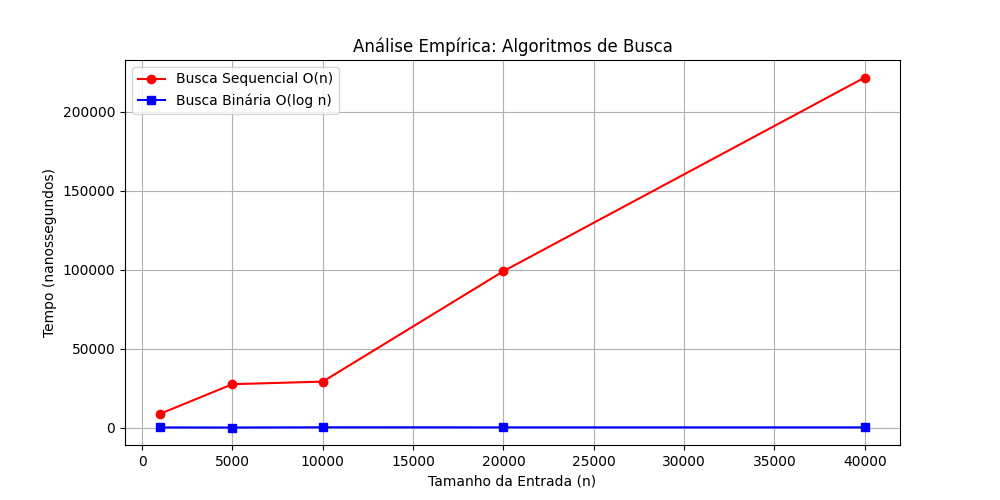
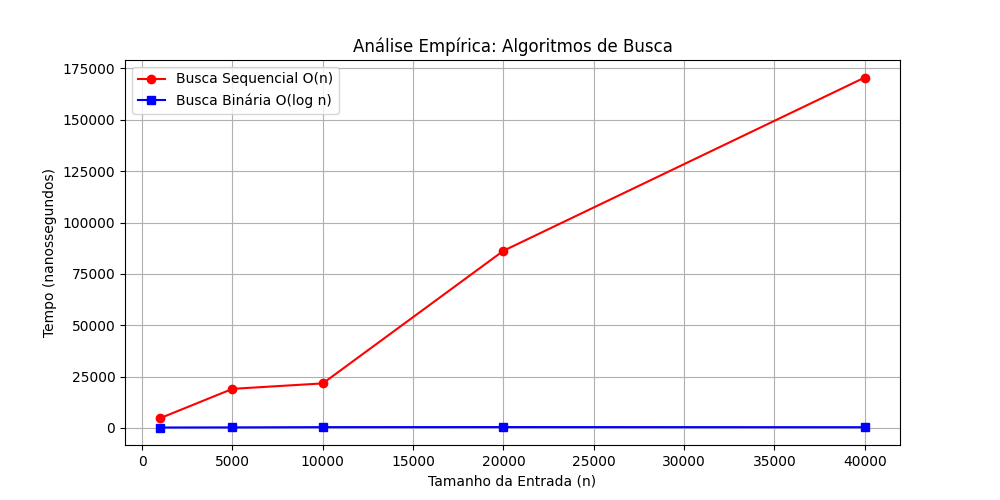
Update: Código documentado e resultados empíricos atualizados

diff --git a/main.cpp b/main.cpp
@@ -8,17 +8,26 @@
 using namespace std;
 using namespace std::chrono;
 
-// --- 1. Busca Sequencial ---
+/**
+ * --- 1. Busca Sequencial ---
+ * Complexidade de Pior Caso: O(n)
+ * Percorre o vetor elemento por elemento.
+ */
 int buscaSequencial(const vector<int>& arr, int alvo) {
-    for (int i = 0; i < arr.size(); i++) {
+    for (int i = 0; i < (int)arr.size(); i++) {
         if (arr[i] == alvo) return i;
     }
     return -1;
 }
 
-// --- 2. Busca Binária ---
+/**
+ * --- 2. Busca Binária ---
+ * Complexidade de Pior Caso: O(log n)
+ * Divide o espaço de busca pela metade a cada iteração.
+ * Requisito: O vetor deve estar ordenado.
+ */
 int buscaBinaria(const vector<int>& arr, int alvo) {
-    int esq = 0, dir = arr.size() - 1;
+    int esq = 0, dir = (int)arr.size() - 1;
     while (esq <= dir) {
         int meio = esq + (dir - esq) / 2;
         if (arr[meio] == alvo) return meio;
@@ -28,9 +37,14 @@ int buscaBinaria(const vector<int>& arr, int alvo) {
     return -1;
 }
 
-// --- 3. Insertion Sort ---
+/**
+ * --- 3. Insertion Sort ---
+ * Complexidade de Pior Caso: O(n^2)
+ * Algoritmo estável que ordena inserindo elementos em sua posição correta
+ * em um subconjunto já ordenado do vetor.
+ */
 void insertionSort(vector<int>& arr) {
-    for (int i = 1; i < arr.size(); i++) {
+    for (int i = 1; i < (int)arr.size(); i++) {
         int chave = arr[i];
         int j = i - 1;
         while (j >= 0 && arr[j] > chave) {
@@ -41,7 +55,11 @@ void insertionSort(vector<int>& arr) {
     }
 }
 
-// --- 4. Quick Sort ---
+/**
+ * --- 4. Quick Sort ---
+ * Complexidade Média: O(n log n) | Pior Caso: O(n^2)
+ * Algoritmo de divisão e conquista que utiliza um pivô para particionar o vetor.
+ */
 int particiona(vector<int>& arr, int baixo, int alto) {
     int pivo = arr[alto];
     int i = (baixo - 1);
@@ -63,7 +81,7 @@ void quickSort(vector<int>& arr, int baixo, int alto) {
     }
 }
 
-// Utilitário para gerar vetor aleatório
+// Utilitário para gerar vetor com semente fixa para reprodutibilidade
 vector<int> gerarVetor(int n) {
     vector<int> arr(n);
     mt19937 rng(42); 
@@ -73,8 +91,9 @@ vector<int> gerarVetor(int n) {
 }
 
 int main() {
+    // Tamanhos de entrada conforme exigido no relatório [cite: 59]
     vector<int> tamanhos = {1000, 5000, 10000, 20000, 40000};
-    int repeticoes = 10;
+    int repeticoes = 10; // Número de repetições para mitigar ruídos 
     
     ofstream arquivo("tempos_execucao.csv");
     arquivo << "n,B_Sequencial(ns),B_Binaria(ns),InsertionSort(ns),QuickSort(ns)\n";
@@ -86,15 +105,15 @@ int main() {
 
         for (int r = 0; r < repeticoes; r++) {
             vector<int> arrOriginal = gerarVetor(n);
-            int alvo = arrOriginal[n - 1]; // Pior caso na busca sequencial
+            int alvo = arrOriginal[n - 1]; // Teste focado no pior caso da busca linear
             
-            // Busca Sequencial
+            // Medição: Busca Sequencial
             auto inicio = high_resolution_clock::now();
             buscaSequencial(arrOriginal, alvo);
             auto fim = high_resolution_clock::now();
             tSeq += duration_cast<nanoseconds>(fim - inicio).count();
 
-            // Busca Binária (precisa ordenar antes, o tempo de ordenação não conta)
+            // Medição: Busca Binária (ordenada previamente com std::sort)
             vector<int> arrOrdenado = arrOriginal;
             sort(arrOrdenado.begin(), arrOrdenado.end());
             inicio = high_resolution_clock::now();
@@ -102,14 +121,14 @@ int main() {
             fim = high_resolution_clock::now();
             tBin += duration_cast<nanoseconds>(fim - inicio).count();
 
-            // Insertion Sort
+            // Medição: Insertion Sort
             vector<int> arr1 = arrOriginal;
             inicio = high_resolution_clock::now();
             insertionSort(arr1);
             fim = high_resolution_clock::now();
             tIns += duration_cast<nanoseconds>(fim - inicio).count();
 
-            // Quick Sort
+            // Medição: Quick Sort
             vector<int> arr2 = arrOriginal;
             inicio = high_resolution_clock::now();
             quickSort(arr2, 0, n - 1);
@@ -117,7 +136,7 @@ int main() {
             tQui += duration_cast<nanoseconds>(fim - inicio).count();
         }
 
-        // Tira as médias e salva no arquivo
+        // Salva a média das execuções no CSV [cite: 17, 60]
         arquivo << n << "," << (tSeq/repeticoes) << "," << (tBin/repeticoes) << "," << (tIns/repeticoes) << "," << (tQui/repeticoes) << "\n";
         cout << "Testado para n = " << n << " concluido." << endl;
     }
